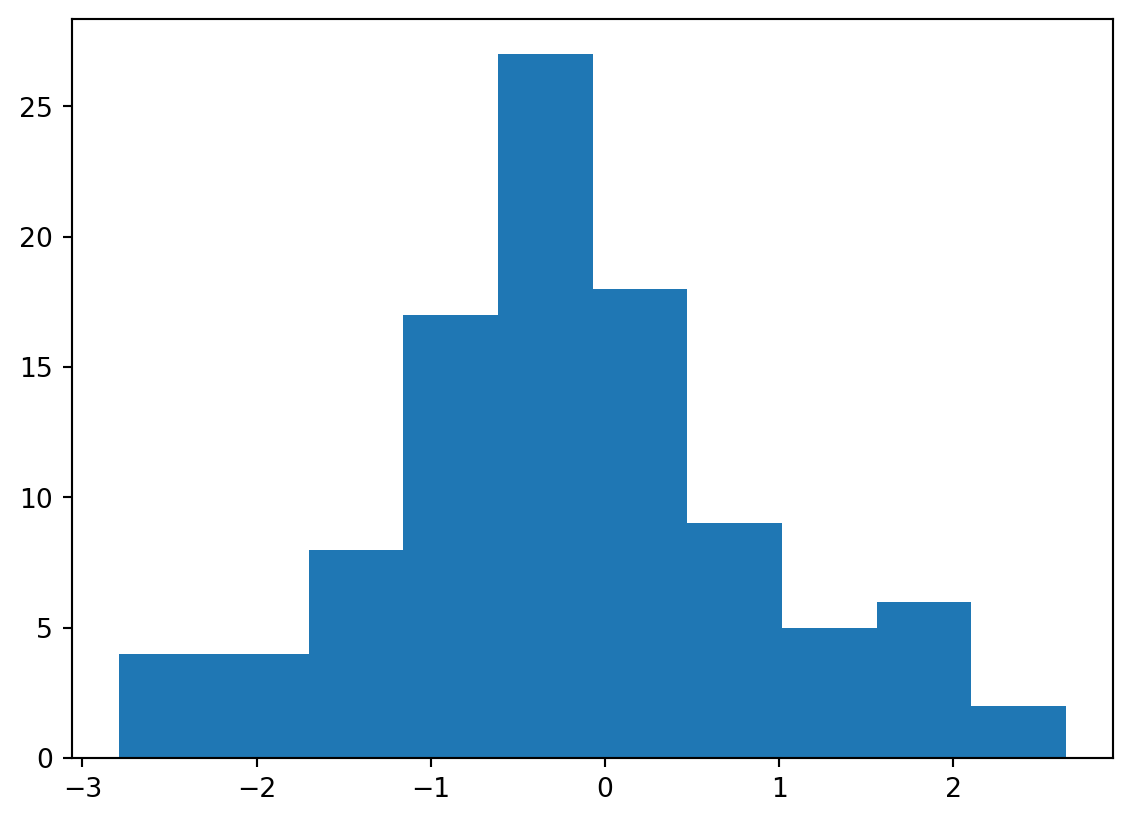
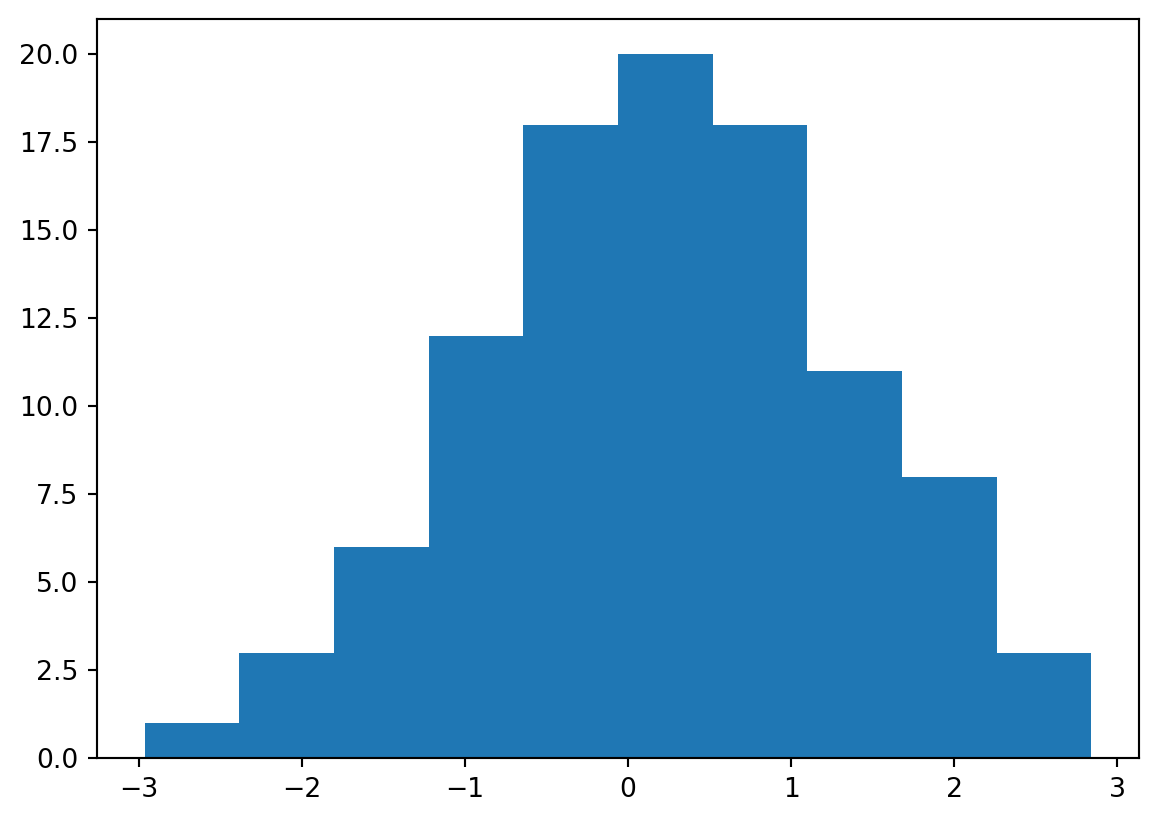
GitHub Actions commit.

diff --git a/lectures/lecture-3.html b/lectures/lecture-3.html
@@ -183,7 +183,7 @@ $$
 <p>This is an example of using qmd as the source document with pdf as one target. I’ve taken out the qmd stuff that doesn’t seem to render to pdf.</p>
 <section id="evaluated-python-code-chunk-with-a-plot" class="level2">
 <h2 class="anchored" data-anchor-id="evaluated-python-code-chunk-with-a-plot">Evaluated Python code chunk, with a plot</h2>
-<div id="6d569a6d" class="cell" data-execution_count="1">
+<div id="ba17b1c5" class="cell" data-execution_count="1">
 <details open="" class="code-fold">
 <summary>Code</summary>
 <div class="sourceCode cell-code" id="cb1"><pre class="sourceCode python code-with-copy"><code class="sourceCode python"><span id="cb1-1"><a href="#cb1-1" aria-hidden="true" tabindex="-1"></a><span class="im">import</span> numpy <span class="im">as</span> np</span>
@@ -196,12 +196,12 @@ $$
 <div class="cell-output cell-output-display">
 <div>
 <figure class="figure">
-<p><img src="lecture-3_files/figure-html/cell-2-output-1.png" width="566" height="411" class="figure-img"></p>
+<p><img src="lecture-3_files/figure-html/cell-2-output-1.png" width="579" height="411" class="figure-img"></p>
 </figure>
 </div>
 </div>
 <div class="cell-output cell-output-display" data-execution_count="1">
-<pre><code>np.float64(-0.2007272641222055)</code></pre>
+<pre><code>np.float64(0.22390720112218965)</code></pre>
 </div>
 </div>
 </section>

diff --git a/index.html b/index.html
@@ -381,6 +381,14 @@ a.unpublished {
   color:#808080
 }
 
+a.auxil-link {
+  margin-right: 15px;
+}
+
+a.auxil-link:last-child {
+  margin-right: 0;
+}
+
 </style>
 
    <h4 class="anchored">Week 1</h4>
@@ -408,11 +416,11 @@ a.unpublished {
                 <td id="td-schedule">
                 
                   
-                    <a href="./syllabus.html">Syllabus</a>
+                    <a class="auxil-link" href="./syllabus.html">Syllabus</a>
                   
                   
                   
-                    <a href="./lectures/s135-sp26-diagnostic.pdf">Diagnostic Test</a>
+                    <a class="auxil-link" href="./lectures/s135-sp26-diagnostic.pdf">Diagnostic Test</a>
                   
                   
                 </td>
